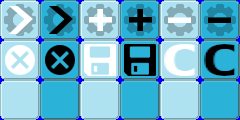
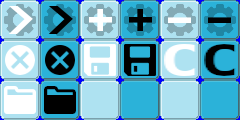
Plot Creator save, load now working.

Changed region(s): [[0.0, 0.7, 0.3208, 0.95]]

diff --git a/game/plotcreator/__init__.py b/game/plotcreator/__init__.py
@@ -1,4 +1,6 @@
 import glob
+
+import gears
 import pbge
 import json
 from . import pbclasses
@@ -87,6 +89,43 @@ class TextVarEditorWidget(pbge.widgets.ColumnWidget):
         self.part.vars[self.var_name] = widj.text
 
 
+class FactionEditorWidget(pbge.widgets.ColumnWidget):
+    def __init__(self, part: BluePrint, var_name, default_value, **kwargs):
+        super().__init__(0,0,350,pbge.SMALLFONT.get_linesize() + pbge.MEDIUMFONT.get_linesize() + 8,**kwargs)
+        self.part = part
+        self.var_name = var_name
+        self.add_interior(pbge.widgets.LabelWidget(0,0,self.w,pbge.SMALLFONT.get_linesize(),var_name,font=pbge.SMALLFONT))
+        mymenu = pbge.widgets.DropdownWidget(0,0,350,pbge.MEDIUMFONT.get_linesize() + 8,justify=0,font=pbge.MEDIUMFONT, on_select=self._do_change)
+        self.add_interior(mymenu)
+        for fac in gears.ALL_FACTIONS:
+            mymenu.add_item(fac.name, "gears.factions." + fac.__name__)
+        for k,fac in part.get_elements().items():
+            if fac.e_type == "faction":
+                mymenu.add_item(fac.name, "self.elements[{}]".format(k))
+        mymenu.menu.sort()
+        mymenu.add_item("==None==", None)
+        mymenu.menu.set_item_by_value(part.vars.get(var_name,None))
+
+    def _do_change(self, result):
+        self.part.vars[self.var_name] = result
+
+
+class BoolEditorWidget(pbge.widgets.ColumnWidget):
+    def __init__(self, part, var_name, default_value, **kwargs):
+        super().__init__(0,0,350,pbge.SMALLFONT.get_linesize() + pbge.MEDIUMFONT.get_linesize() + 8,**kwargs)
+        self.part = part
+        self.var_name = var_name
+        self.add_interior(pbge.widgets.LabelWidget(0,0,self.w,pbge.SMALLFONT.get_linesize(),var_name,font=pbge.SMALLFONT))
+        mymenu = pbge.widgets.DropdownWidget(0,0,350,pbge.MEDIUMFONT.get_linesize() + 8,justify=0,font=pbge.MEDIUMFONT, on_select=self._do_change)
+        self.add_interior(mymenu)
+        mymenu.add_item("True", True)
+        mymenu.add_item("False", False)
+        mymenu.menu.set_item_by_value(part.vars.get(var_name,True))
+
+    def _do_change(self, result):
+        self.part.vars[self.var_name] = result
+
+
 class VarEditorPanel(pbge.widgets.ColumnWidget):
     def __init__(self,mypart,editor,dx=10,dy=-200,w=350,h=450,**kwargs):
         super().__init__(dx,dy,w,h,draw_border=True,center_interior=True,**kwargs)
@@ -107,6 +146,10 @@ class VarEditorPanel(pbge.widgets.ColumnWidget):
         for k in mybrick.vars.keys():
             if mybrick.vars[k].var_type == "text":
                 mywidget = TextVarEditorWidget(self.editor.active_part, k, self.editor.active_part.vars.get(k))
+            elif mybrick.vars[k].var_type == "faction":
+                mywidget = FactionEditorWidget(self.editor.active_part, k, self.editor.active_part.vars.get(k))
+            elif mybrick.vars[k].var_type == "boolean":
+                mywidget = BoolEditorWidget(self.editor.active_part, k, self.editor.active_part.vars.get(k))
             else:
                 mywidget = StringVarEditorWidget(self.editor.active_part, k, self.editor.active_part.vars.get(k))
             self.scroll_column.add_interior(
@@ -130,6 +173,7 @@ class PlotCreator(pbge.widgets.Widget):
         mybuttonrow.add_left(pbge.widgets.ButtonWidget(0,0,40,40,mybuttons,frame=2,on_frame=2,off_frame=3,on_click=self._add_feature,tooltip="Add Feature"))
         self.remove_gear_button = pbge.widgets.ButtonWidget(0,0,40,40,mybuttons,frame=4,on_frame=4,off_frame=5,on_click=self._remove_feature,tooltip="Remove Feature", show_when_inactive=True)
         mybuttonrow.add_left(self.remove_gear_button)
+        mybuttonrow.add_right(pbge.widgets.ButtonWidget(0,0,40,40,mybuttons,frame=8,on_frame=8,off_frame=9,on_click=self._save,tooltip="Save Scenario"))
         mybuttonrow.add_right(pbge.widgets.ButtonWidget(0,0,40,40,mybuttons,frame=10,on_frame=10,off_frame=11,on_click=self._compile,tooltip="Compile Scenario"))
         mybuttonrow.add_right(pbge.widgets.ButtonWidget(0,0,40,40,mybuttons,frame=6,on_frame=6,off_frame=7,on_click=self._exit_editor,tooltip="Exit Editor"))
 
@@ -162,13 +206,18 @@ class PlotCreator(pbge.widgets.Widget):
     def _exit_editor(self,widj,ev):
         self.finished = True
 
+    def _save(self, widj, ev):
+        fname = "PLOTCREATOR_{}.json".format(self.mytree.vars["uname"])
+        with open(pbge.util.user_dir("content",fname), 'wt') as fp:
+            json.dump(self.mytree.get_save_dict(), fp, indent='\t')
+
     def _compile(self, widj, ev):
         myprog = self.mytree.compile()
         fname = "ADV_{}.py".format(self.mytree.vars["uname"])
         with open(pbge.util.user_dir("content",fname), 'wt') as fp:
             for l in myprog["main"]:
                 fp.write(l+'\n')
-        pbge.alert("{} has been written to your content folder. You will need to restart GearHead to load the scenario.".format(fname))
+        pbge.BasicNotification("{} has been written. Restart GearHead to load the scenario.".format(fname))
 
     def click_part(self,widj,ev):
         if widj.data:
@@ -183,9 +232,8 @@ class PlotCreator(pbge.widgets.Widget):
         self.vars_widget.refresh_var_widgets()
 
     @classmethod
-    def create_and_invoke(cls, redraw):
+    def create_and_invoke(cls, redraw, mytree):
         # Create the UI. Run the UI. Clean up after you leave.
-        mytree = BluePrint(BRICKS_BY_NAME["Scenario"])
         myui = cls(mytree)
         pbge.my_state.widgets.append(myui)
         pbge.my_state.view = redraw
@@ -200,6 +248,25 @@ class PlotCreator(pbge.widgets.Widget):
                     keepgoing = False
 
         pbge.my_state.widgets.remove(myui)
+
+
+def start_plot_creator(redraw):
+    mainmenu = pbge.rpgmenu.Menu(-150, 0, 300, 226, predraw=redraw, font=pbge.BIGFONT)
+    mainmenu.add_item("+Create New Scenario", "CNS")
+    myfiles = glob.glob(pbge.util.user_dir( "content", "PLOTCREATOR_*.json"))
+    for f in myfiles:
+        mainmenu.add_item(f, f)
+
+    fname = mainmenu.query()
+    if fname == "CNS":
+        mytree = BluePrint(BRICKS_BY_NAME["Scenario"])
+        PlotCreator.create_and_invoke(redraw, mytree)
+    elif fname:
+        with open(fname, 'rt') as fp:
+            mydict = json.load(fp)
+            if mydict:
+                mytree = BluePrint.load_save_dict(mydict)
+                PlotCreator.create_and_invoke(redraw, mytree)
 
 
 def init_plotcreator():

diff --git a/game/plotcreator/pbclasses.py b/game/plotcreator/pbclasses.py
@@ -10,8 +10,15 @@ class VariableDefinition(object):
         self.data = kwargs.copy()
 
 
+class ElementDefinition(object):
+    def __init__(self, name, e_type="misc", **kwargs):
+        self.name = name
+        self.e_type = e_type
+        self.etc = kwargs
+
+
 class PlotBrick(object):
-    def __init__(self, name="", desc="", scripts=None, vars=None, child_types=(), **kwargs):
+    def __init__(self, name="", desc="", scripts=None, vars=None, child_types=(), elements=None, is_new_branch=False, **kwargs):
         self.name = name
         self.desc = desc
         self.scripts = dict()
@@ -22,7 +29,13 @@ class PlotBrick(object):
             for k, v in vars.items():
                 self.vars[k] = VariableDefinition(**v)
         self.child_types = list(child_types)
+        self.elements = dict()
+        if elements:
+            for k,v in elements.items():
+                self.elements[k] = ElementDefinition(**v)
+        self.is_new_branch = is_new_branch
         self.data = kwargs.copy()
+
 
     def get_default_vars(self):
         myvars = dict()
@@ -39,6 +52,30 @@ class BluePrint(object):
         self.vars = brick.get_default_vars()
         self._uid = 0
 
+    def get_save_dict(self):
+        mydict = dict()
+        mydict["brick"] = self._brick_name
+        mydict["uid"] = self._uid
+        mydict["vars"] = self.vars
+        mydict["children"] = list()
+        if hasattr(self, "max_uid"):
+            mydict["max_uid"] = self.max_uid
+        for c in self.children:
+            mydict["children"].append(c.get_save_dict())
+        return mydict
+
+    @classmethod
+    def load_save_dict(cls, jdict: dict):
+        mybrick = BRICKS_BY_NAME[jdict["brick"]]
+        mybp = cls(mybrick)
+        mybp._uid = jdict["uid"]
+        mybp.vars.update(jdict["vars"])
+        if "max_uid" in jdict:
+            mybp.max_uid = jdict["max_uid"]
+        for cdict in jdict["children"]:
+            mybp.children.append(cls.load_save_dict(cdict))
+        return mybp
+
     def get_section(self, section_name, my_scripts, child_scripts, prefix, touched_scripts, done_scripts, used_scripts):
         if section_name in touched_scripts:
             if section_name in done_scripts:
@@ -54,7 +91,6 @@ class BluePrint(object):
             if script_line:
                 n = script_line.find("#:")
                 if n >= 0:
-                    print("Adding section..." + script_line)
                     new_prefix = prefix + " " * n
                     new_section_name = script_line[n+2:].strip()
                     insert_lines = self.get_section(new_section_name, my_scripts, child_scripts, new_prefix, touched_scripts, done_scripts, used_scripts)
@@ -67,6 +103,17 @@ class BluePrint(object):
             done_scripts[section_name].append(prefix + script_line)
 
         return done_scripts[section_name]
+
+    def get_ultra_vars(self):
+        # Return all variables readable by this blueprint, including the _uid.
+        vars = dict()
+        my_ancestors = list(self.ancestors())
+        my_ancestors.reverse()
+        for a in my_ancestors:
+            vars.update(a.vars)
+        vars.update(self.vars)
+        vars["_uid"] = self.uid
+        return vars
 
     def compile(self, inherited_vars=None):
         # Return a dict of Python scripts to be added to the output file.
@@ -130,6 +177,23 @@ class BluePrint(object):
         else:
             return self
 
+    def ancestors(self):
+        if hasattr(self, "container") and self.container:
+            yield self.container.owner
+            for p in self.container.owner.ancestors():
+                yield p
+
+    def predecessors(self):
+        if hasattr(self, "container") and self.container:
+            yield self.container.owner
+            for p in self.container.owner.children:
+                if p is self:
+                    break
+                elif not p.brick.is_new_branch:
+                    yield p
+            for p in self.container.owner.predecessors():
+                yield p
+
     def _get_uid(self):
         if self._uid != 0:
             return self._uid
@@ -143,6 +207,24 @@ class BluePrint(object):
             return self._uid
 
     uid = property(_get_uid)
+
+    def get_elements(self):
+        # Return a dict of elements accessible from this block.
+        # key = element_ID
+        # value = ElementDefinition
+        elements = dict()
+        my_ancestors = list(self.predecessors())
+        my_ancestors.reverse()
+        for a in my_ancestors:
+            avars = a.get_ultra_vars()
+            for k,v in a.brick.elements.items():
+                elements[k.format(**avars)] = ElementDefinition(v.name.format(**avars), e_type=v.e_type)
+
+        avars = self.get_ultra_vars()
+        for k,v in self.brick.elements.items():
+            elements[k.format(**avars)] = ElementDefinition(v.name.format(**avars), e_type=v.e_type)
+
+        return elements
 
 
 ALL_BRICKS = list()

diff --git a/pbge/widgets.py b/pbge/widgets.py
@@ -424,17 +424,33 @@ class TextEditorWidget( Widget ):
         self.justify = justify
         self.cursor_image = image.Image("sys_editcursor.png", 8, 16)
 
-        up_arrow = ButtonWidget(0,0,w-32,-8,sprite=image.Image("sys_updownbuttons_small.png",32,16),on_frame=0,off_frame=1)
-        down_arrow = ButtonWidget(0,0,w-32,h+8,sprite=image.Image("sys_updownbuttons_small.png",32,16),on_frame=2,off_frame=3)
+        up_arrow = ButtonWidget(w-32,-8,32,16,sprite=image.Image("sys_updownbuttons_small.png",32,16),on_frame=0,off_frame=1, parent=self)
+        down_arrow = ButtonWidget(w-32,h+8,32,16,sprite=image.Image("sys_updownbuttons_small.png",32,16),on_frame=2,off_frame=3, parent=self)
 
         self.children.append(up_arrow)
         self.children.append(down_arrow)
 
         self.on_change = on_change
-        self.cursor_pos = 0
-        self.carat_pos = None
+        # The current index of the cursor and carat:
+        self.cursor_i = 0
+        self.carat_i = None
         self.top_line = 0
         self.num_lines = (self.h - 12) // self.font.get_linesize()
+
+    def get_line_pos(self, index, lengths):
+        # Given the buffer index and lengths of each screen line (in characters), return the screen line
+        # and the screen index of this position.
+        line = 0
+        for l in lengths:
+            if index < l:
+                break
+            else:
+                index -= l
+                line += 1
+        return line, index
+
+    def get_buffer_index(self, dx, dy, lines):
+        pass
 
     def render( self ):
         mydest = self.get_rect()
@@ -443,7 +459,9 @@ class TextEditorWidget( Widget ):
         else:
             widget_border_off.render(mydest.inflate(-4,-4))
 
-        lines, lengths = wrap_with_records(self.text, self.font, self.w)
+        lines, lengths = wrap_with_records(self.text, self.font, self.w - 12)
+
+        cursor_line, cursor_pos = self.get_line_pos(self.cursor_i, lengths)
 
         if self.top_line + self.num_lines - 1 > len(lines):
             self.top_line = max(0, len(lines) - self.num_lines)
@@ -451,22 +469,47 @@ class TextEditorWidget( Widget ):
         textdest = mydest.inflate(-12,-12)
         my_state.screen.set_clip( textdest )
 
+        current_line = self.top_line
+        #print(cursor_countdown, cursor_line, cursor_pos)
         for l in lines[self.top_line:self.top_line + self.num_lines]:
             img = self.font.render(l, True, self.color )
             my_state.screen.blit(img, textdest)
+            if self is my_state.active_widget and current_line == cursor_line:
+                cdest = textdest.copy()
+                cdest.x += self.font.size(l[:cursor_pos])[0] - 4
+                self.cursor_image.render(cdest.topleft, (my_state.anim_phase // 5) % 4)
+            current_line += 1
             textdest.y += self.font.get_linesize()
 
         my_state.screen.set_clip( None )
+
+    def _insert(self, new_text):
+        for c in list(new_text):
+            self.char_list.insert(self.cursor_i, new_text)
+            self.cursor_i += 1
 
     def _builtin_responder(self,ev):
         if my_state.active_widget is self:
             if ev.type == pygame.KEYDOWN:
                 if (ev.key == pygame.K_BACKSPACE) and (len(self.char_list) > 0):
-                    del self.char_list[-1]
-                    if self.on_change:
-                        self.on_change(self,ev)
+                    if self.cursor_i > 0:
+                        del self.char_list[self.cursor_i - 1]
+                        self.cursor_i -= 1
+                        if self.on_change:
+                            self.on_change(self,ev)
+                elif (ev.key == pygame.K_DELETE) and (len(self.char_list) > 0):
+                    if self.cursor_i < len(self.char_list):
+                        del self.char_list[self.cursor_i]
+                        if self.on_change:
+                            self.on_change(self, ev)
+                elif ev.key == pygame.K_LEFT:
+                    if self.cursor_i > 0:
+                        self.cursor_i -= 1
+                elif ev.key == pygame.K_RIGHT:
+                    if self.cursor_i < len(self.char_list):
+                        self.cursor_i += 1
                 elif (ev.unicode in self.ALLOWABLE_CHARACTERS) and (len(ev.unicode) > 0):
-                    self.char_list.append(ev.unicode)
+                    self._insert(ev.unicode)
                     if self.on_change:
                         self.on_change(self,ev)
 

diff --git a/main.py b/main.py
@@ -209,7 +209,7 @@ def play_the_game():
     mymenu.add_item("Config Options", open_config_menu)
     mymenu.add_item("Browse Mecha", game.mechabrowser.MechaBrowser())
     mymenu.add_item("Edit Mecha", game.geareditor.LetsEditSomeMeks)
-    mymenu.add_item("Edit Scenario", game.plotcreator.PlotCreator.create_and_invoke)
+    mymenu.add_item("Edit Scenario", game.plotcreator.start_plot_creator)
     if pbge.util.config.getboolean("GENERAL", "dev_mode_on"):
         mymenu.add_item("Eggzamination", game.devstuff.Eggzaminer)
     mymenu.add_item("Quit", None)

diff --git a/pbge/__init__.py b/pbge/__init__.py
@@ -350,8 +350,9 @@ def wrap_with_records(fulltext, font, maxwidth):
         done = 0
         while not done:
             nl, done, stext = truncline(text, font, maxwidth)
-            wrapped.append(stext.strip())
-            line_lengths.append(nl)
+            wrapped.append(stext.lstrip())
+            #wrapped.append(stext)
+            line_lengths.append(nl + 1)
             text = text[nl:]
     return wrapped, line_lengths
 

diff --git a/credits.md b/credits.md
@@ -39,6 +39,7 @@ Pouting Face, Slightly Frowning Face, Neutral Face by Mariella Steeb
 Slightly Smiling Face, Beaming Face with Smiling Eyes by Emily Jäger
 * link by Hassan ali from the Noun Project
 * bag by zidney from the Noun Project
+* Folder by Ines Simoes from the Noun Project
 
 MUSIC
 =====
